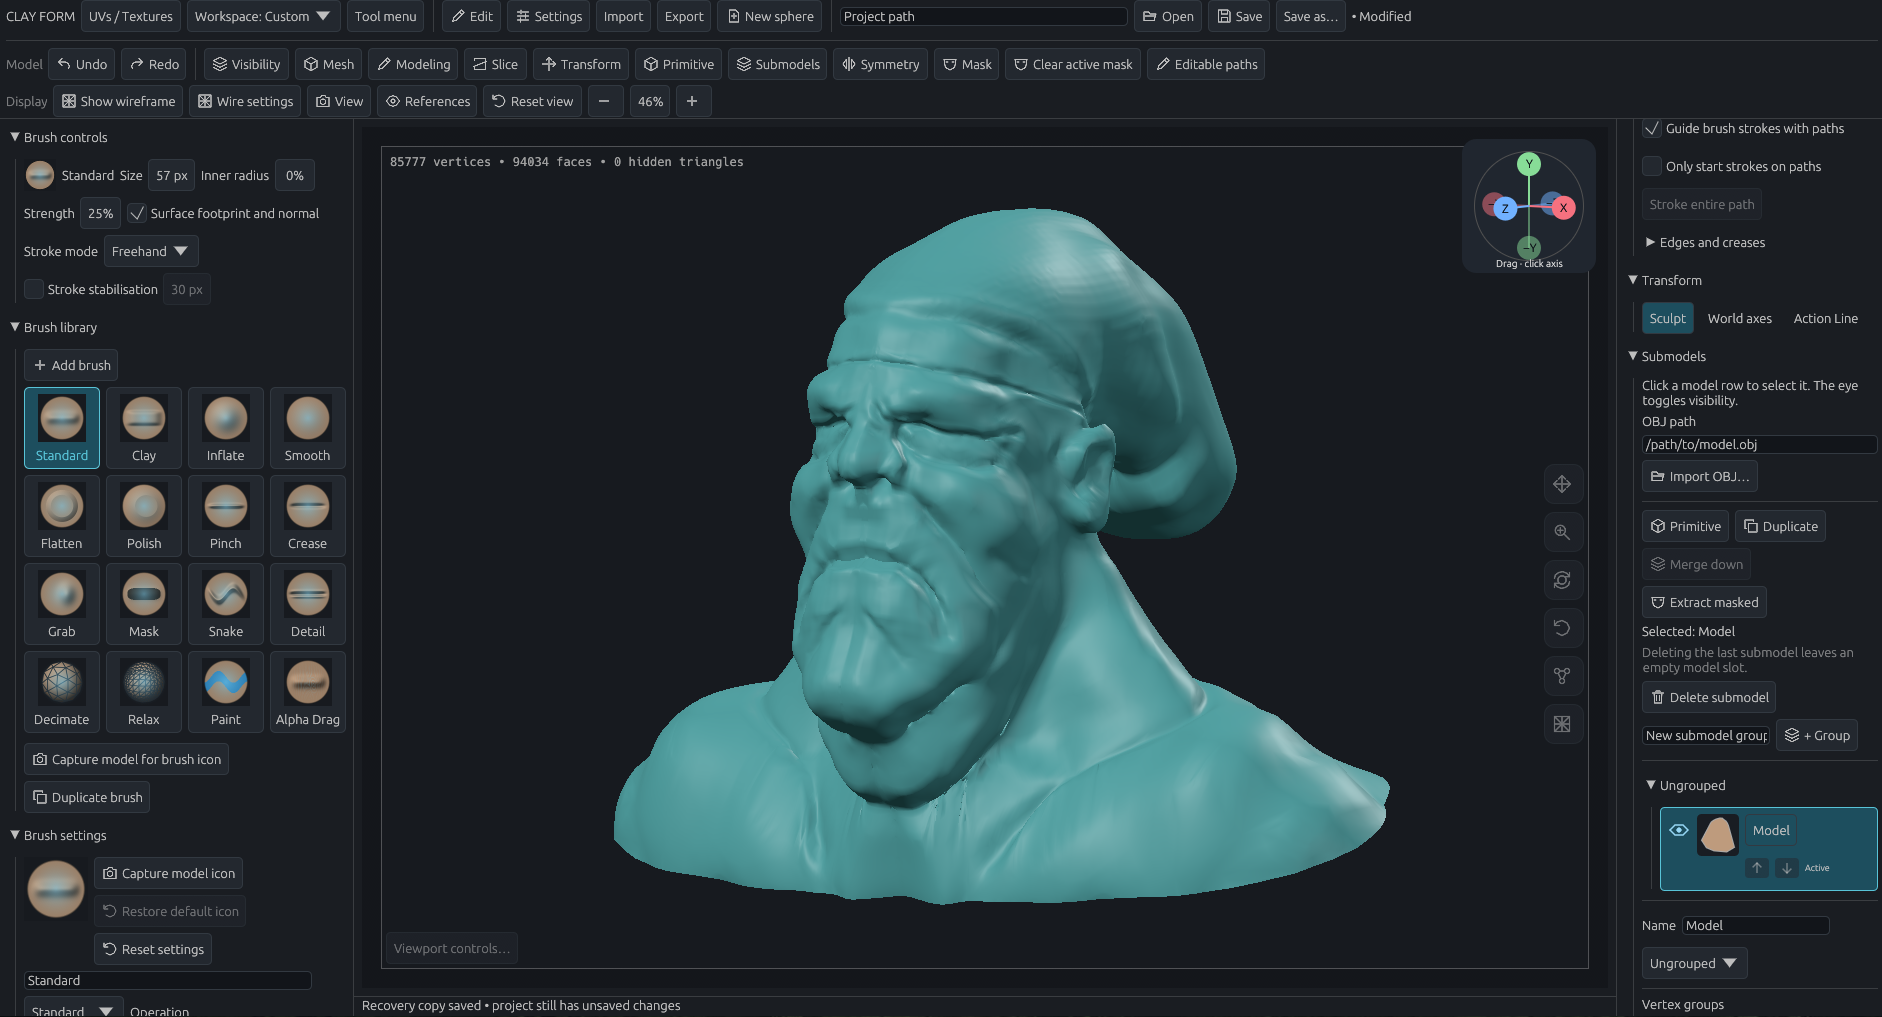
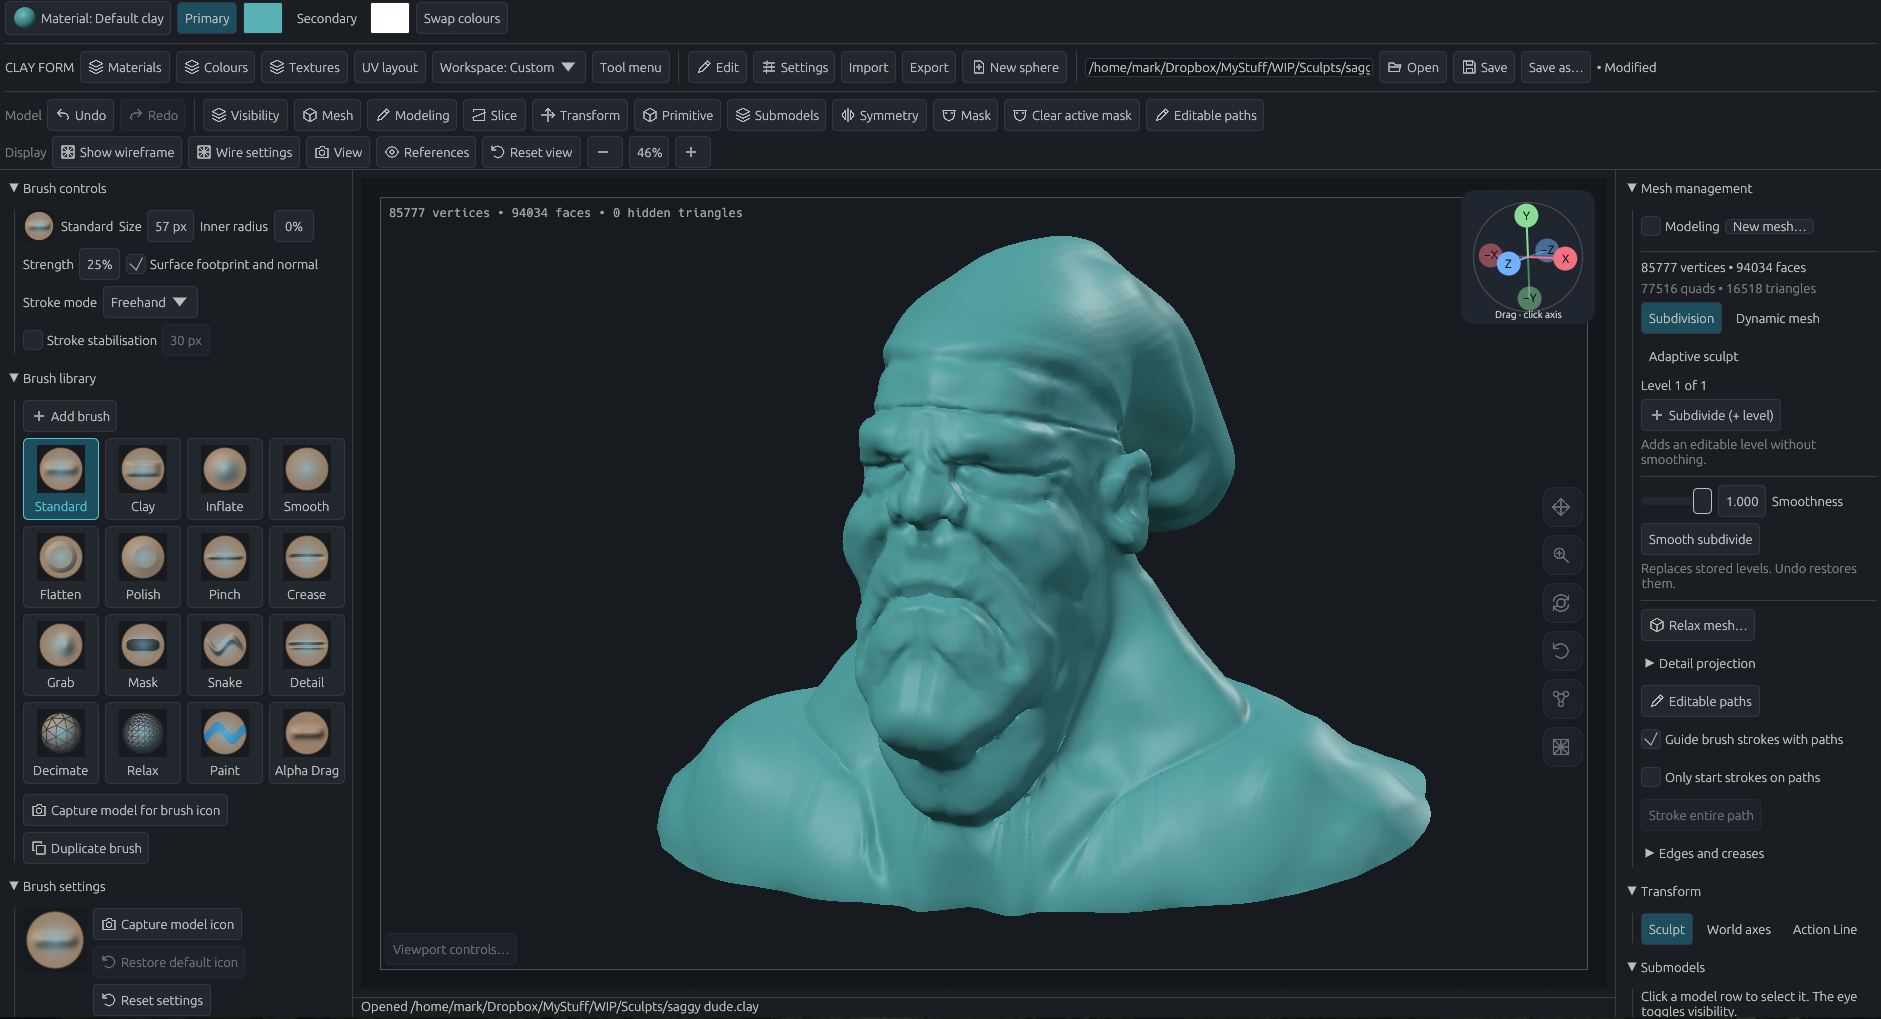
Refresh README lead image with current sculpting workspace

diff --git a/docs/images/README.md b/docs/images/README.md
@@ -25,7 +25,7 @@ See [Development](../development.md#update-guide-screenshots) for prerequisites 
 | Images | What they explain | Capture test |
 | --- | --- | --- |
 | `alien-cone-head-workspace.png` | Earlier README capture: alien head with teal material and three-point lighting | User-supplied application screenshot; retained reference |
-| `head-sculpt-workspace.png` | [README lead image](../../README.md): a bearded head sculpt with the teal material and sculpting controls | User-supplied application screenshot; not generated by the capture script |
+| `head-sculpt-workspace.png` | [README lead image](../../README.md): a teal bearded head sculpt with the material and colour strip, brush library and mesh management controls | User-supplied application screenshot; not generated by the capture script |
 | `alpha-library.png`, `alpha-editor.png`, `alpha-surface-stencil.png`, `alpha-adaptive-spiral.png`, `alpha-stencil-controls.png` | [Reusable image alphas and a placed surface stencil](../guide/sculpting.md#create-and-reuse-an-image-alpha) | `alpha_library_stencil_offscreen_review` |
 | `submodel-delete.png` | [Deleting a selected hidden reference submodel](../guide/modeling.md#delete-a-submodel) | `delete_submodel_offscreen_review` |
 | `detail-projection-preview.png` | [Reference-to-target detail transfer with match feedback before Apply](../guide/modeling.md#recover-detail-after-remeshing) | `detail_projection_offscreen_review` |

diff --git a/README.md b/README.md
@@ -2,7 +2,7 @@
 
 Clay Form is a desktop sculpting prototype. Shape a sphere with a mouse or pen, then save your model and return to it later.
 
-![A bearded head sculpt in Clay Form with teal material, brush controls on the left and submodels on the right](docs/images/head-sculpt-workspace.png)
+![A teal bearded head sculpt in Clay Form, with material and colour controls above, brushes on the left and mesh management on the right](docs/images/head-sculpt-workspace.png)
 
 *Head Sculpt*
 
